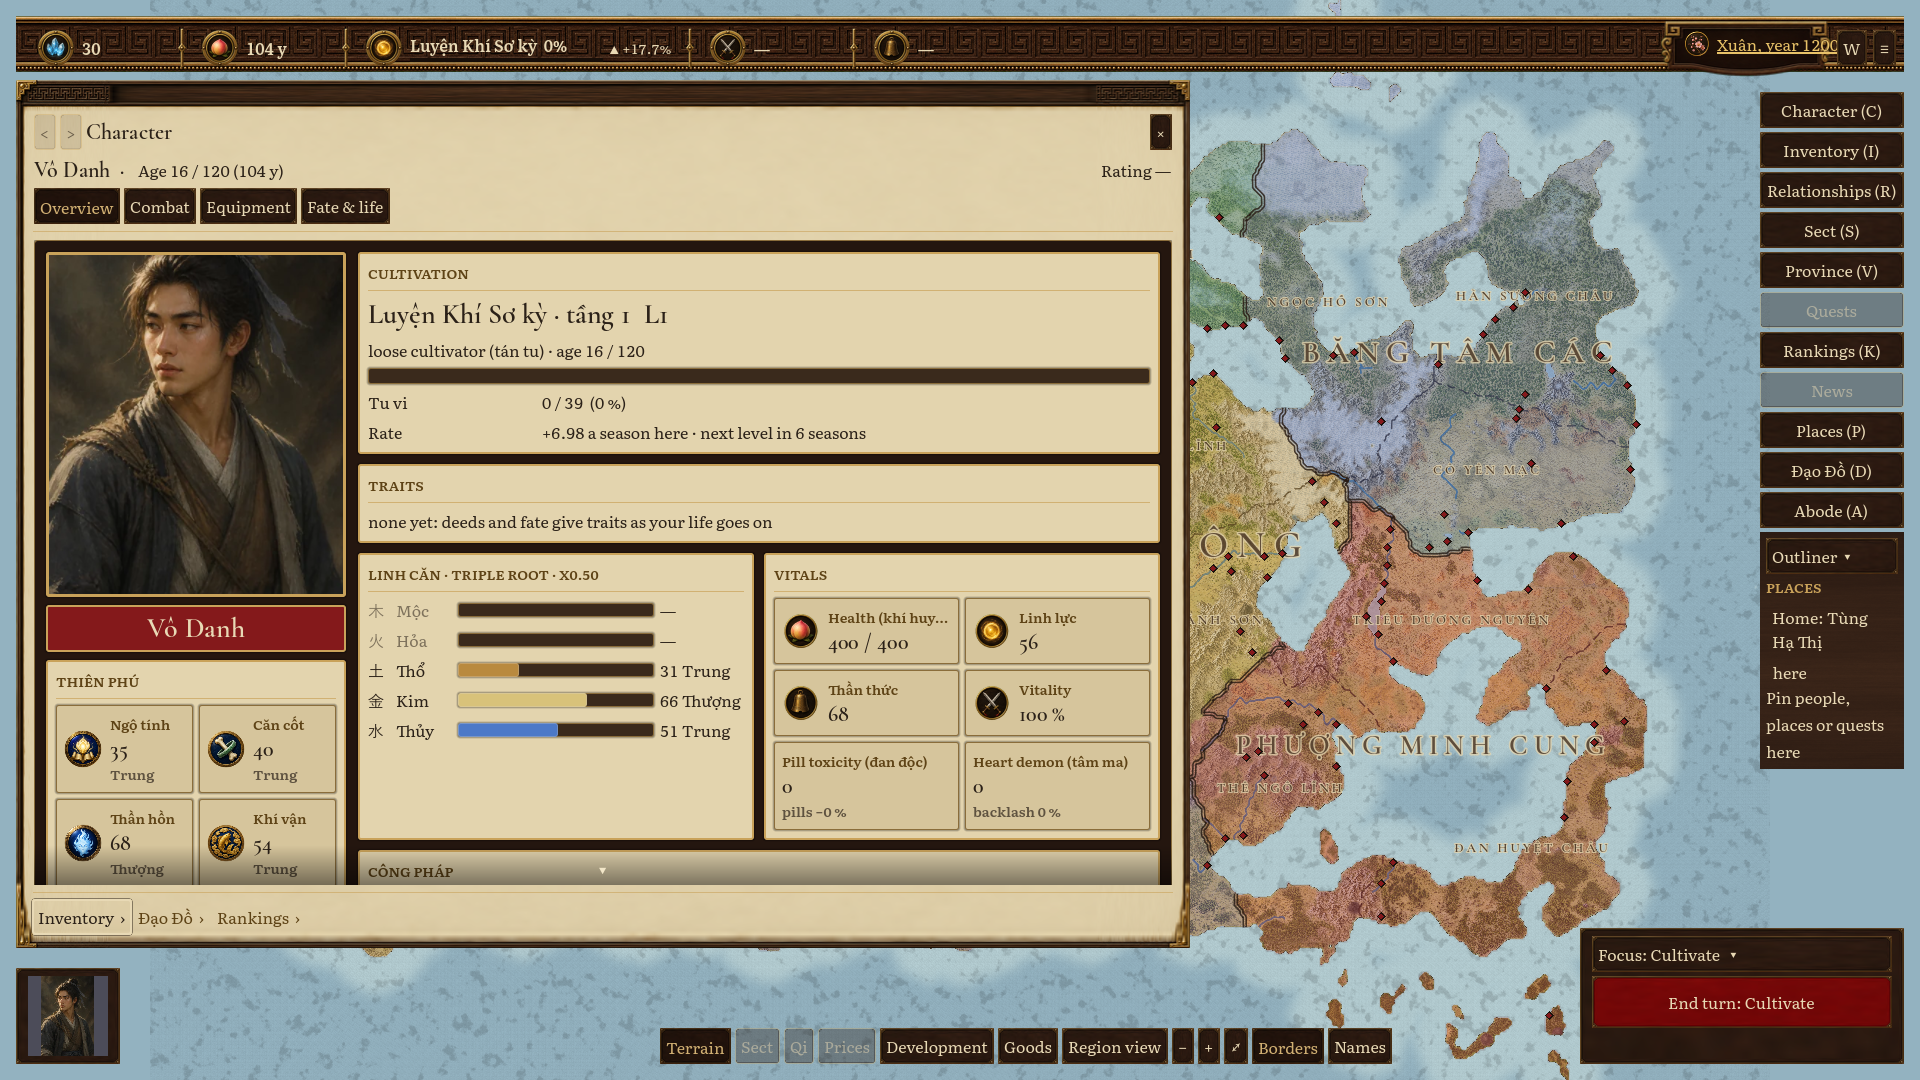
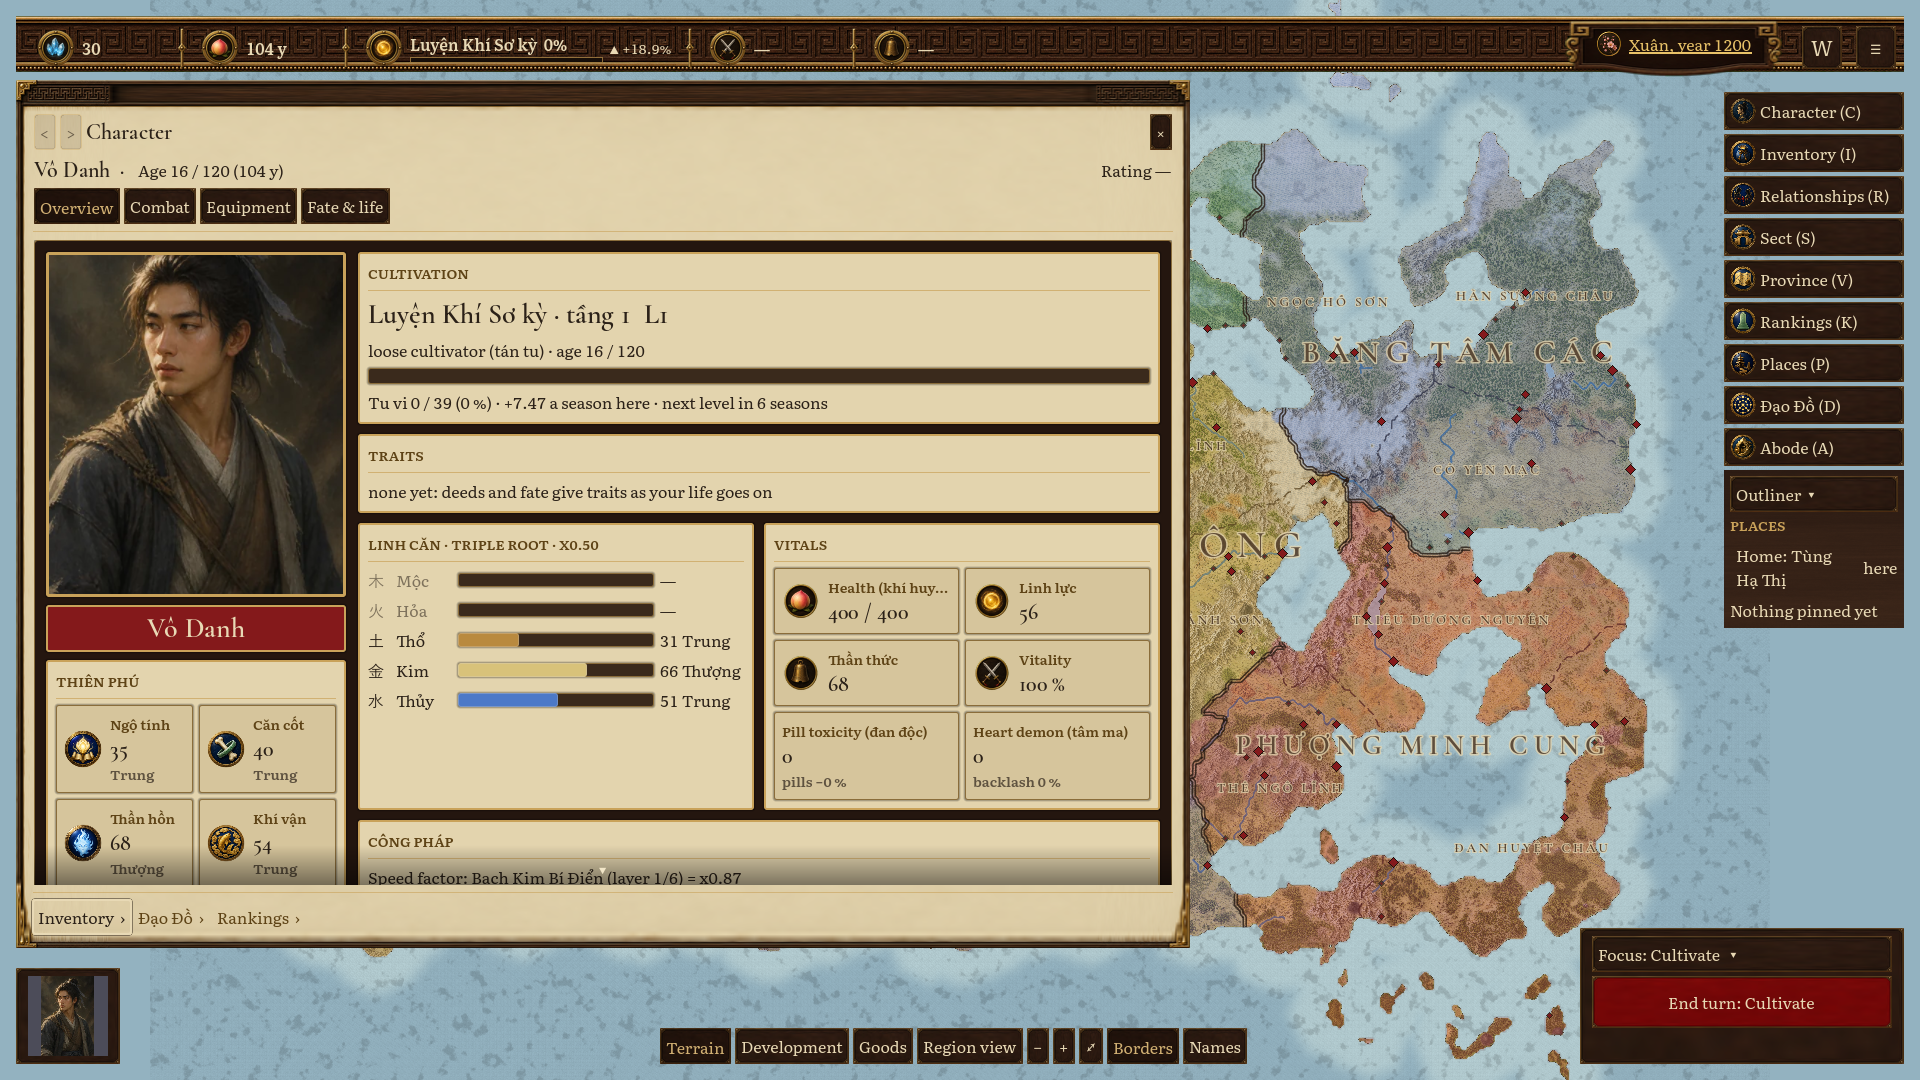
feat: sect cards with Visit the seat, map labels by rank, crowded evidence, windows keep their share
Weak-point pass, the rest of production/plans/ui-weakpoints-2026-11-24.md (user 2026-11-24: "we can do the rest
though, please do them in 1 go"; the combat tab waits for combat formations):
- Map (#9, user "good keep"): a great sect's name shrinks until it clears the others; place diamonds sized and faded
  by rank on the far map (ui_hud.json marker_rank_scale / marker_rank_alpha).
- Sect loose view (#15): great-sect cards with the seat's painting and Visit the seat… (action travel_place, the
  turn's travel choice); other sects' standing as a meter.
- Overview (#2): tu vi and rate on one line. Outliner (#7): one-row places, "Nothing pinned yet". Top bar (#8): a 6 px
  rimmed cultivation strip. Dropdowns (#13): a themed PopupMenu.
- Crowded evidence: --crowded with --inventory-fixture (43 items, long names, a missing icon) or
  --relationships-fixture (24 ties, 12 met); --open-dropdown. It caught an unwrapped feud badge widening the
  Relationships window over the map's buttons: long badges wrap at 280 px, and a window body's horizontal scroll is
  never shown rather than disabled, so content can no longer grow a window past its share (regression test watched
  failing on the old setting).
- tools/run-tests-parallel.sh: ONLY="dirs" SPLIT=1 runs a subset one process per test file (UI + session +
  integration: ~11 min serial -> 5 min 48 s at JOBS=5); unset, it runs as before.
Tests: 307/307 (unit/session, unit/ui, integration/ui, one process per file).

diff --git a/production/plans/ui-weakpoints-2026-11-24.md b/production/plans/ui-weakpoints-2026-11-24.md
@@ -45,21 +45,26 @@ find weakpoints and suggestions on how to improve them".
   play (`--show-unbuilt` shows them). Kept by decision: Z3 is the portrait only (user 2026-11-23).
 - **Debug line on the map** (#9, part): "Greybox: LLM off." is gone (no LLM by design); a small dim "Dev: rating
   fights off for this run." shows only in such runs.
+- **Map labels and markers** (#9): a great sect's name shrinks until it clears the others; place diamonds are sized and
+  faded by rank on the far map (user: "good keep").
+- **Sect loose view** (#15): great-sect cards with the seat's painting and Visit the seat… (`travel_place`); standing
+  as a meter.
+- **Overview** (#2): tu vi and rate on one line. **Outliner** (#7): one-row places, a one-line empty state.
+  **Top bar** (#8): a 6 px rimmed cultivation strip. **Dropdowns** (#13): themed PopupMenu.
+- **Populated evidence**: `--crowded` (with `--inventory-fixture`: 43 items, long names, a missing icon; with
+  `--relationships-fixture`: 24 ties, 12 met). It caught a real bug: an unwrapped feud badge widened the Relationships
+  window over the map's buttons (now wraps at 280 px).
 
 ## Suggestions, ranked (not built)
 | # | Weak point | Suggestion | Effort |
 |---|---|---|---|
-| 2 | Scroll cue (rest) | Tu vi / Rate onto one line under the bar | S |
-| 4 | Combat tab (rest) | icons per stat; equipped techniques and wards beside the groups | S |
-| 5 | Window sizes (rest) | one size rule: sheets and lists 60 % side panel, wiki and tree full screen, decisions centre window; the loose Sect view half empty; (the Abode's clamp lines now hide the "(Formula B)" reference in a tooltip) | M |
-| 7 | Outliner (rest) | a one-line empty state; its "here" mark wraps under a place's name | S |
-| 8 | Top bar (rest) | the cultivation box's 4 px bar is hard to see at 0 %; short captions under the numbers if playtests miss the tooltips | S |
-| 9 | Map labels and markers (rest) | cap region label size inside its polygon, fade place markers by importance and zoom (map art and style decisions: ask the user first) | M |
+| 4 | Combat tab (rest) | icons per stat; equipped techniques and wards beside the groups: **after combat formations are built** (user 2026-11-24) | S |
+| 5 | Window sizes (rest) | one written size rule (now: sheets, lists and the wiki 62 % side panels, the inventory 50 %, the Đạo Đồ and Abode full screen); the window host still lets a wide minimum grow a window past its share (a cap there would catch the next unwrapped label) | S |
 | 10 | Rankings (rest) | a change-since-last-season column needs a per-season rank snapshot (a Power Rankings data change, not UI only) | M |
-| 11 | Đạo Đồ toolbar overloaded; no orientation | split the toolbar (points / search / view), a minimap with the viewport and your path, brighter unallocated nodes, "Next:" into the points tooltip, Apply as the gold primary | L |
-| 12 | Wiki (rest) | links are the art bible's on-parchment term colour (cinnabar #84191B), which the review read as warning red: **a style decision for the user** | S |
-| 13 | Buttons (rest) | styled dropdowns; cross-window links in the header; CommitButton as the one primary per window | S |
-| 15 | Sect (rest) | Visit the seat from the loose view; standing as a meter | S |
+| 11 | Đạo Đồ toolbar overloaded; no orientation (Đạo Đồ on hold, user 2026-11-24) | split the toolbar (points / search / view), a minimap with the viewport and your path, brighter unallocated nodes, "Next:" into the points tooltip, Apply as the gold primary | L |
+
+Decided: wiki links keep the art bible's cinnabar (user 2026-11-24). Cross-window links in the header and
+CommitButton as the one primary are in place where a window has a decision (sect); the rest have none.
 
 Broader: a single **window template** (one-line header with title, tabs and close; content grid; pinned action bar;
 scroll fade; the size rule), **hide everything not built** behind a dev flag, lead each window with **the one decision

diff --git a/design/ux/hud.md b/design/ux/hud.md
@@ -1269,6 +1269,11 @@ their painted medallion (ui_windows.json `icon`) left of the label; the column i
 built yet (Quests, News; the Sect, Qi and Prices map modes) are hidden in play and shown with `--show-unbuilt`. The
 greybox note is gone; a 14 px "Dev: rating fights off for this run." shows only in such runs.
 
+The cultivation box's progress strip is 6 px with a brass rim, readable at 0 %. Dropdown lists (PopupMenu) are a rosewood
+panel with a brass rim and bone text, a brass wash on the hovered item (RosewoodTheme). Map: a great sect's name shrinks
+until it clears the names already drawn; on the far paper map the place diamonds are sized and faded by rank
+(greybox.map_zoom marker_rank_scale / marker_rank_alpha), easing to one size on the relief.
+
 ## Open Questions
 
 - **Resource box data (2026-11-23):** `GameQuery.resources` gives the rate here, the power number and contribution (ADR-0006); the season changes come from the HUD's End-turn baseline (Resource box). **Renown** has no sources or season rule in `character-stats.md` yet (the GDD session's), so its box shows "—" until it does. The icons for the six boxes are new art (art bible 7.13).

diff --git a/design/ux/sect-window.md b/design/ux/sect-window.md
@@ -274,6 +274,11 @@ Action bar (weak-point pass, 2026-11-24, #15): the bar leads with the one decisi
 its confirm, **Join ↓** for an outsider at a sect's seat (its reason in the tooltip while closed) or **Promote ↓** for
 a member below the top rank (`GameWindow.bar_jump`). Links to other windows are text buttons with ›.
 
+Loose view: the great sects are cards (two columns; one in compact) with the seat's painting, the name (a link to the
+sect), path, craft and members, seat and region, and **Visit the seat…** (action `travel_place`: the turn's travel
+choice for the seat; "You are at its seat" when there). Other sects' standing is a meter from the centre (red below 0,
+green above) with its number.
+
 ## Open Questions
 
 - Sect services bought with contribution (sects.md) have no session command yet: listed as "not in the game yet".

diff --git a/design/ux/outliner.md b/design/ux/outliner.md
@@ -150,6 +150,11 @@ Names wrap within the 144 px column (no limit: wrapping holds 40 % longer text);
 - [ ] `[GdUnit]` × unpins; Delete on the name button unpins; rows have accessible names.
 - [ ] `[Screenshot]` 1920×1080 with a pinned person (`production/qa/evidence/ui-windows/80-*.png`), and 1280×720 collapsed; nothing clips.
 
+## Revision: weak-point pass (2026-11-24)
+
+A place and its distance share one row ("here" or "N seasons", right-aligned); the empty state is one line, "Nothing
+pinned yet", with how to pin in its tooltip.
+
 ## Open Questions
 
 - Closed 2026-11-24: pins in the save file. The user decided "Save them" (ADR-0007); the save's `frontend` block owns

diff --git a/design/ux/character-sheet.md b/design/ux/character-sheet.md
@@ -398,6 +398,9 @@ block, body shield, evade, soul resistance), Offence (crit chance, crit multipli
 Resistances (typed), at the full width, each with a one-line hint in its tooltip. Units: shares (evade, crit, body
 shield) show as %, block, wards and resistances as points (the old table showed block 3.91 as "391 %").
 
+Overview cultivation: tu vi and the rate are one line under the bar ("Tu vi 0 / 39 (0 %) · +7.47 a season here · next
+level in 6 seasons"), its tooltip the rate's breakdown.
+
 ## Open Questions
 
 Resolved by the round-2 revision: the portrait is the PortraitPicker's, with `PlaceholderArt` when art is missing (the

diff --git a/design/ux/relationships-page.md b/design/ux/relationships-page.md
@@ -247,6 +247,11 @@ their id and "(record gone)"; not built (Open Question 10).
       `32-relationships-illustrated-1920x1080.png`), 1280×720 (compact; not retained yet), and 150 % and 75 % UI
       scale (not retained yet); nothing clips.
 
+## Revision: weak-point pass (2026-11-24)
+
+A badge longer than 280 px (a feud with its cause) wraps at 280 px, so a full page keeps its window width
+(`--relationships-fixture --crowded`: 24 ties, 12 met).
+
 ## Open Questions
 
 1. Glyphs are text placeholders until the §7.1 dark-tile icons are painted (art budget).
